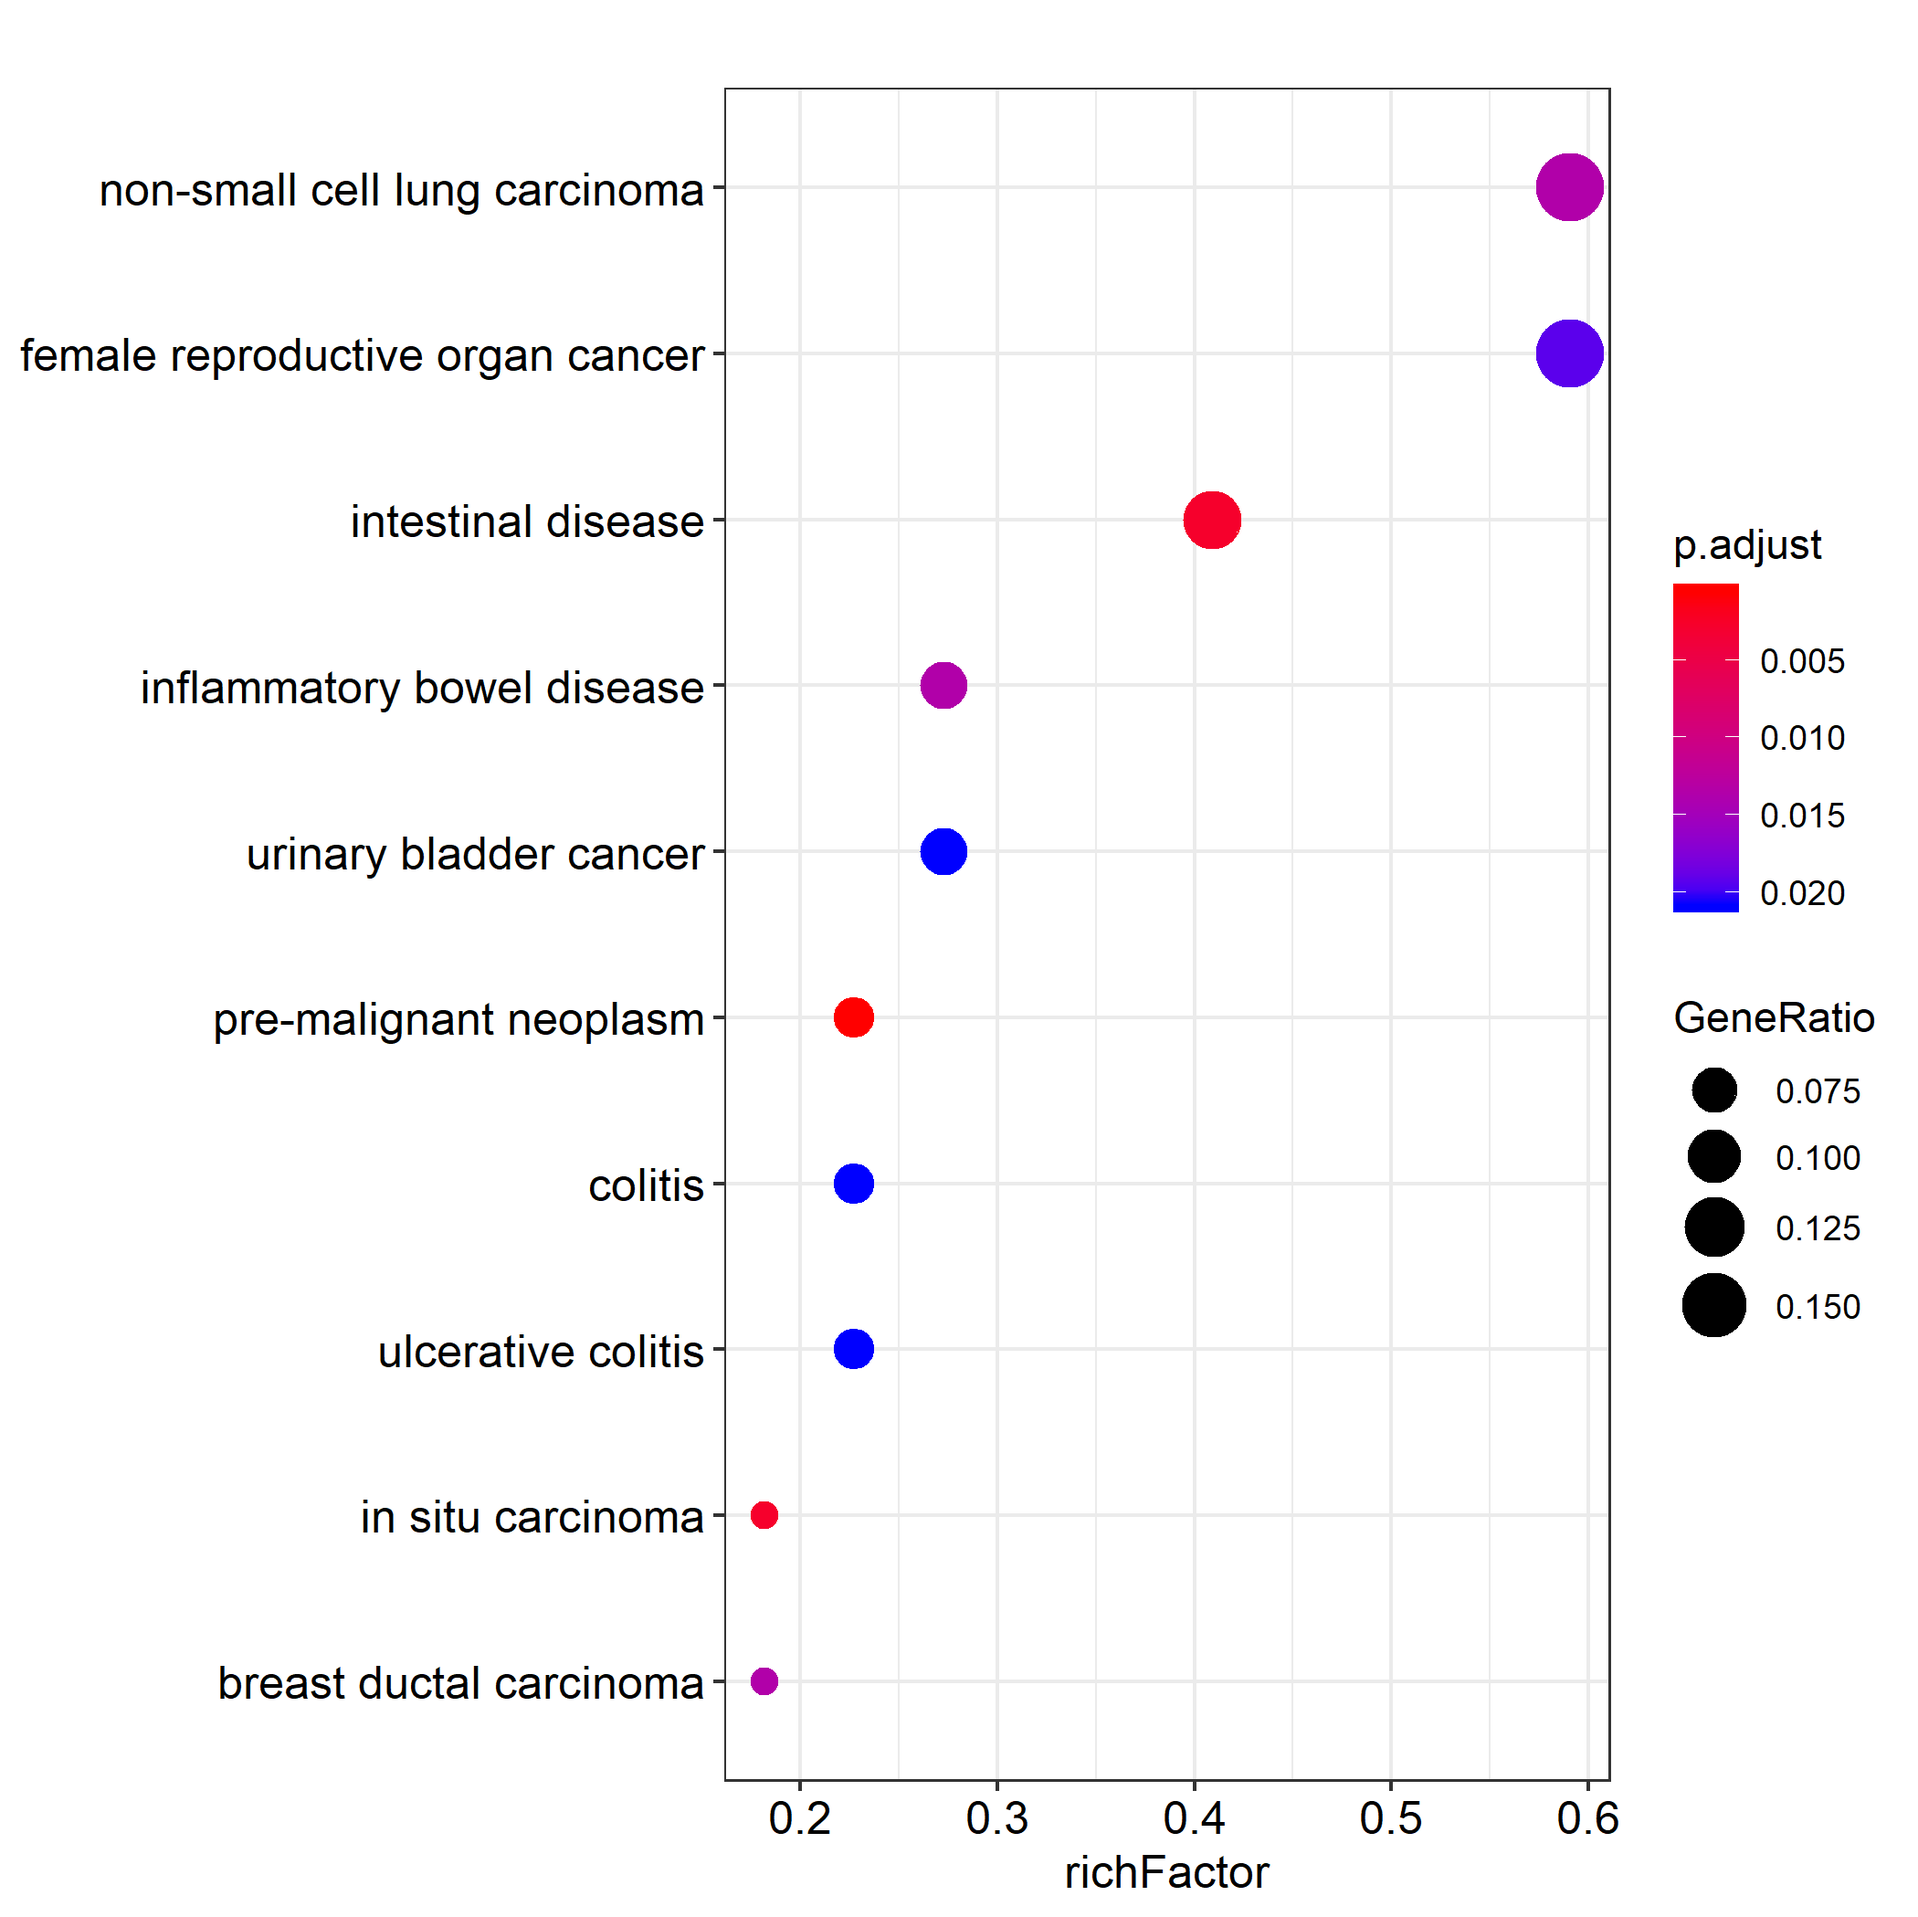
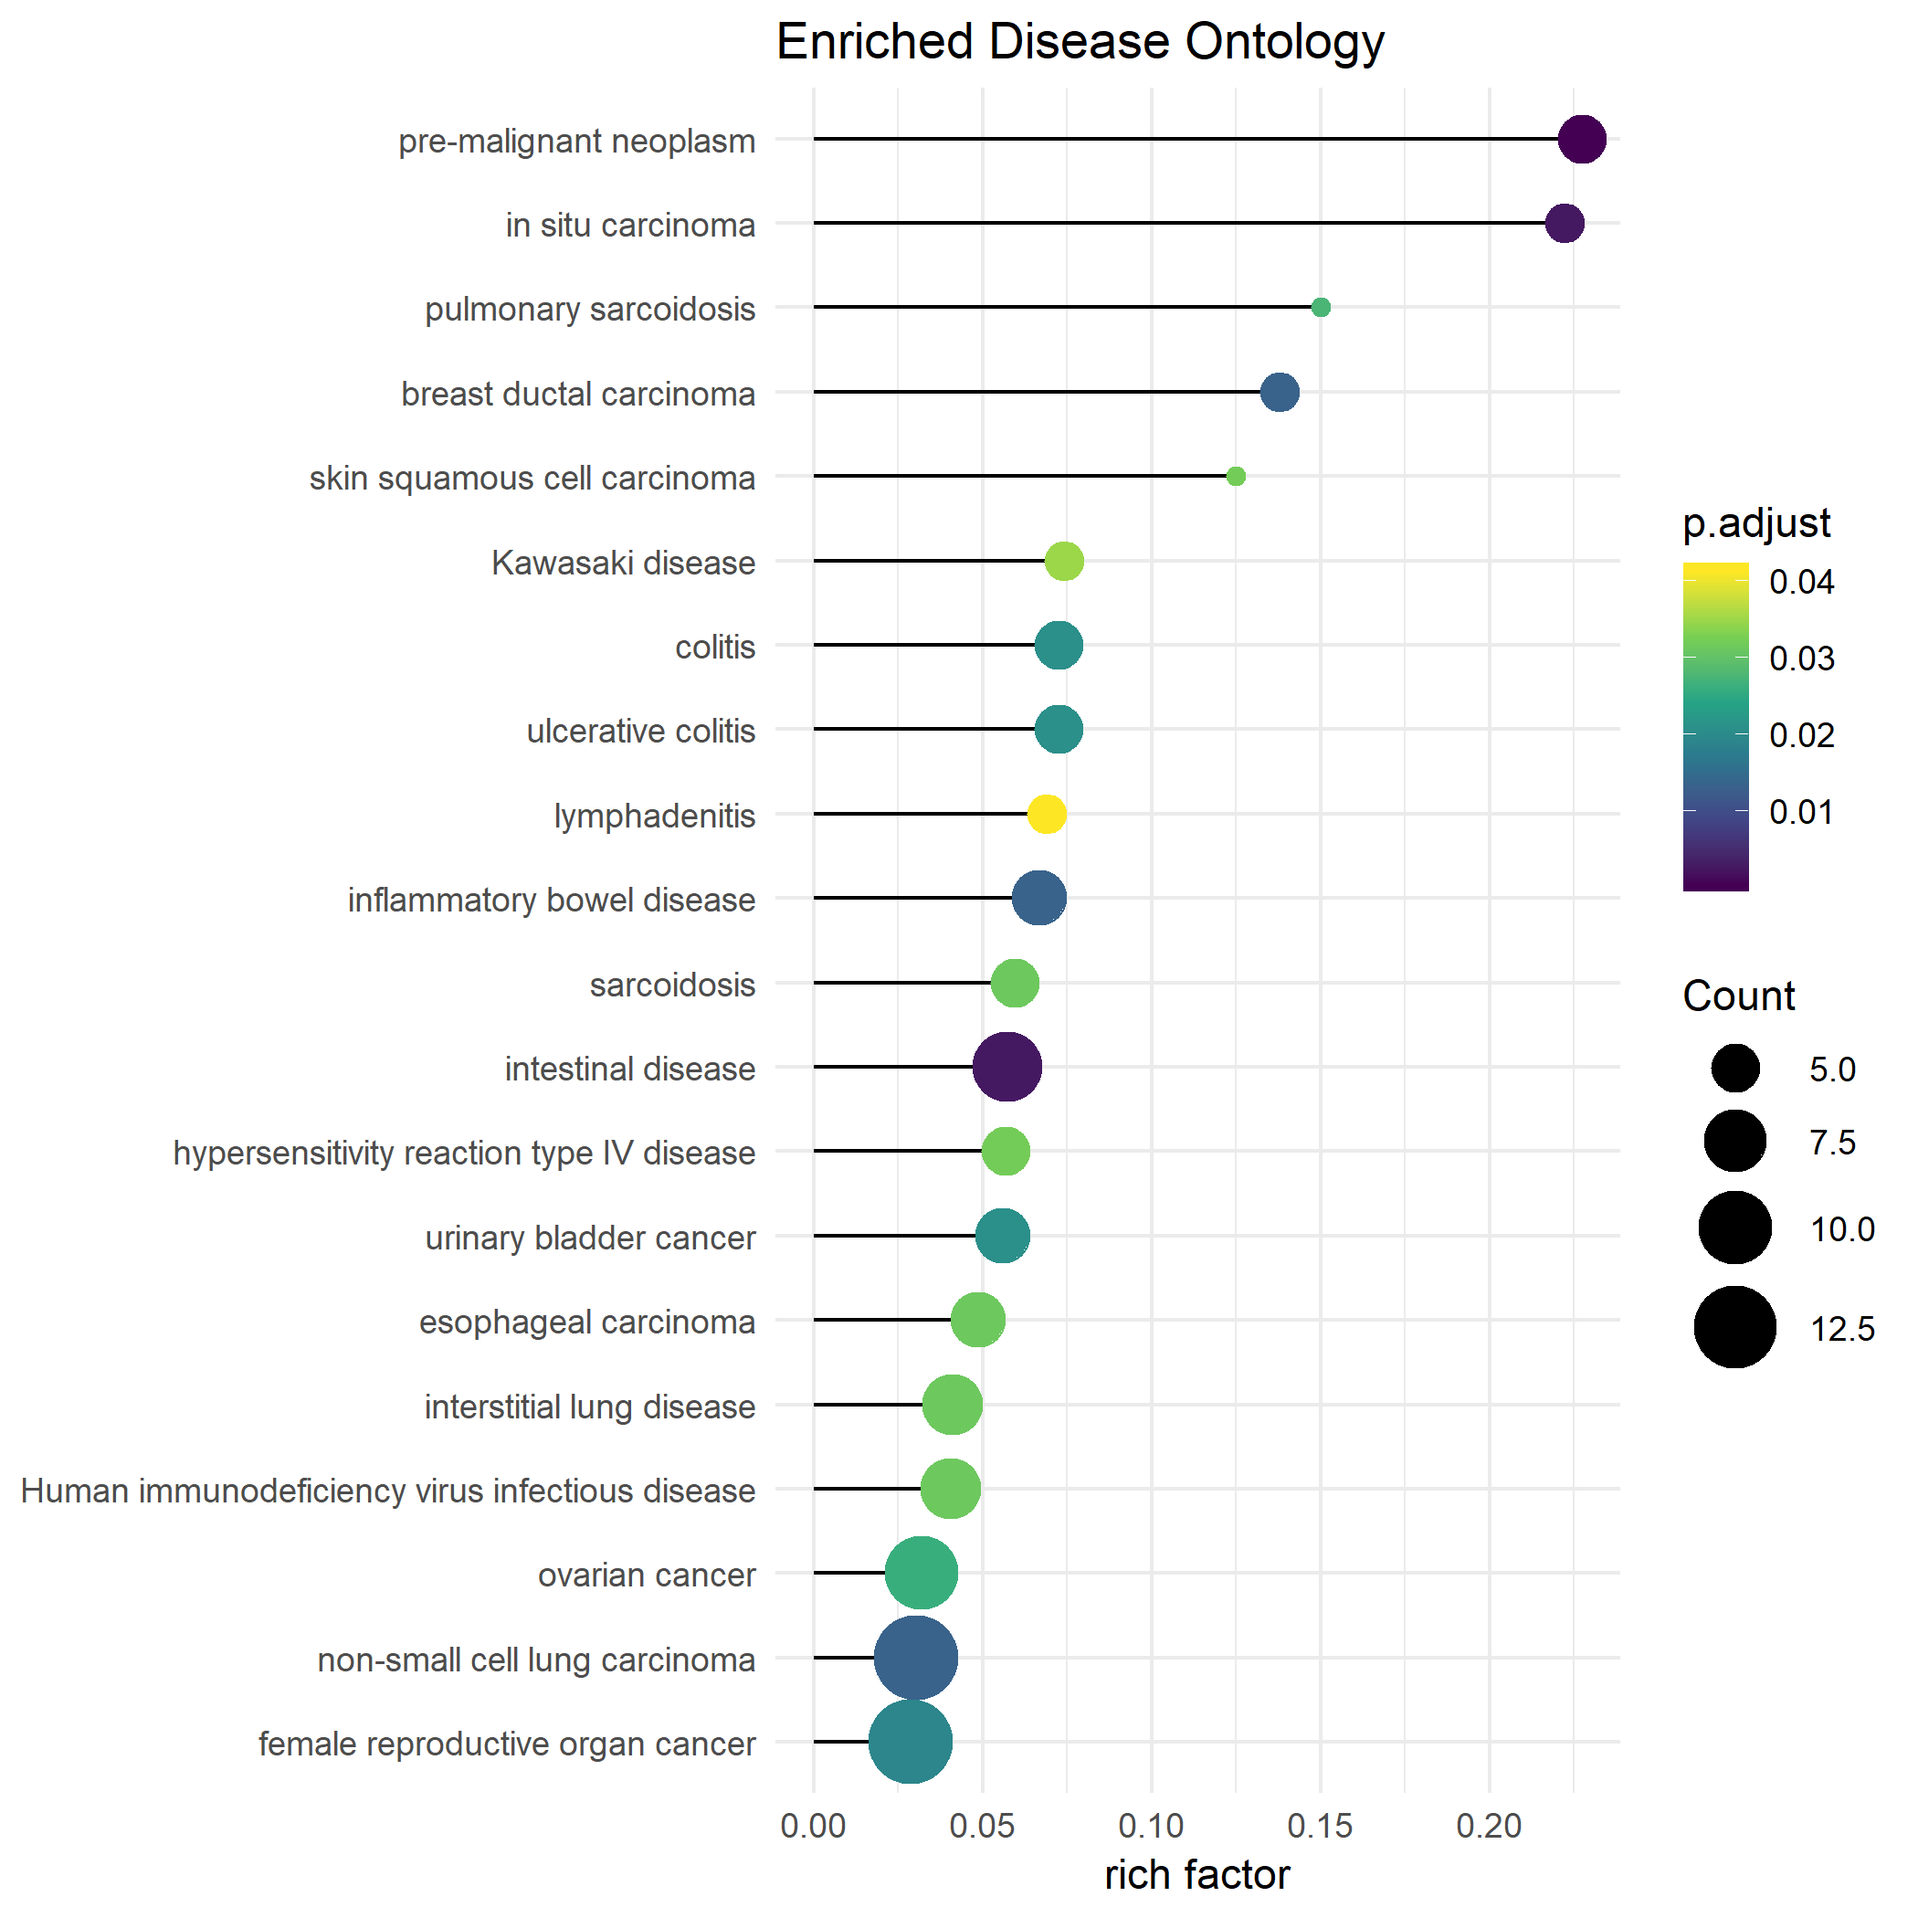
update example

diff --git a/README.md b/README.md
@@ -3,9 +3,9 @@ require(DOSE)
 data(geneList)
 de = names(geneList)[1:100]
 x = enrichDO(de)
-N <- as.numeric(sub("\\d+/", "", x[1, "BgRatio"]))
+
 require(clusterProfiler.dplyr)
-y <- mutate(x, richFactor = Count/N)
+y <- mutate(x, richFactor = Count / as.numeric(sub("/\\d+", "", BgRatio)))
 ```
 
 ```
@@ -13,13 +13,13 @@ y <- mutate(x, richFactor = Count/N)
 #
 # over-representation test
 #
-#...@organism    Homo sapiens
-#...@ontology    DO
-#...@keytype     ENTREZID
-#...@gene        chr [1:100] "4312" "8318" "10874" "55143" "55388" "991" "6280" "2305" ...
-#...pvalues adjusted by 'BH' with cutoff <0.05
+#...@organism 	 Homo sapiens 
+#...@ontology 	 DO 
+#...@keytype 	 ENTREZID 
+#...@gene 	 chr [1:100] "4312" "8318" "10874" "55143" "55388" "991" "6280" "2305" "9493" "1062" "3868" ...
+#...pvalues adjusted by 'BH' with cutoff <0.05 
 #...28 enriched terms found
-'data.frame':   28 obs. of  10 variables:
+'data.frame':	28 obs. of  10 variables:
  $ ID         : chr  "DOID:0060071" "DOID:5295" "DOID:8719" "DOID:3007" ...
  $ Description: chr  "pre-malignant neoplasm" "intestinal disease" "in situ carcinoma" "breast ductal carcinoma" ...
  $ GeneRatio  : chr  "5/77" "9/77" "4/77" "4/77" ...
@@ -29,15 +29,28 @@ y <- mutate(x, richFactor = Count/N)
  $ qvalue     : num  0.000461 0.002008 0.002008 0.009796 0.009796 ...
  $ geneID     : chr  "6280/6278/10232/332/4321" "4312/6279/3627/10563/4283/890/366/4902/3620" "6280/6278/10232/332" "6280/6279/4751/6286" ...
  $ Count      : int  5 9 4 4 13 6 13 5 5 6 ...
- $ richFactor : num  0.000624 0.001124 0.0005 0.0005 0.001624 ...
+ $ richFactor : num  0.2273 0.0573 0.2222 0.1379 0.0302 ...
 #...Citation
   Guangchuang Yu, Li-Gen Wang, Guang-Rong Yan, Qing-Yu He. DOSE: an
   R/Bioconductor package for Disease Ontology Semantic and Enrichment
-  analysis. Bioinformatics 2015, 31(4):608-609
+  analysis. Bioinformatics 2015, 31(4):608-609 
 ```
 
 ```
-dotplot(y, x = "richFactor")
+library(ggplot2)
+library(forcats)
+library(enrichplot)
+
+ggplot(y, showCategory = 20, 
+  aes(richFactor, fct_reorder(Description, richFactor))) + 
+  geom_segment(aes(xend=0, yend = Description)) +
+  geom_point(aes(color=p.adjust, size = Count)) +
+  scale_color_viridis_c() +
+  scale_size_continuous(range=c(2, 10)) +
+  theme_minimal() + 
+  xlab("rich factor") +
+  ylab(NULL) + 
+  ggtitle("Enriched Disease Ontology")
 ```
 
 ![](figures/dotplot-richFactor.png)
